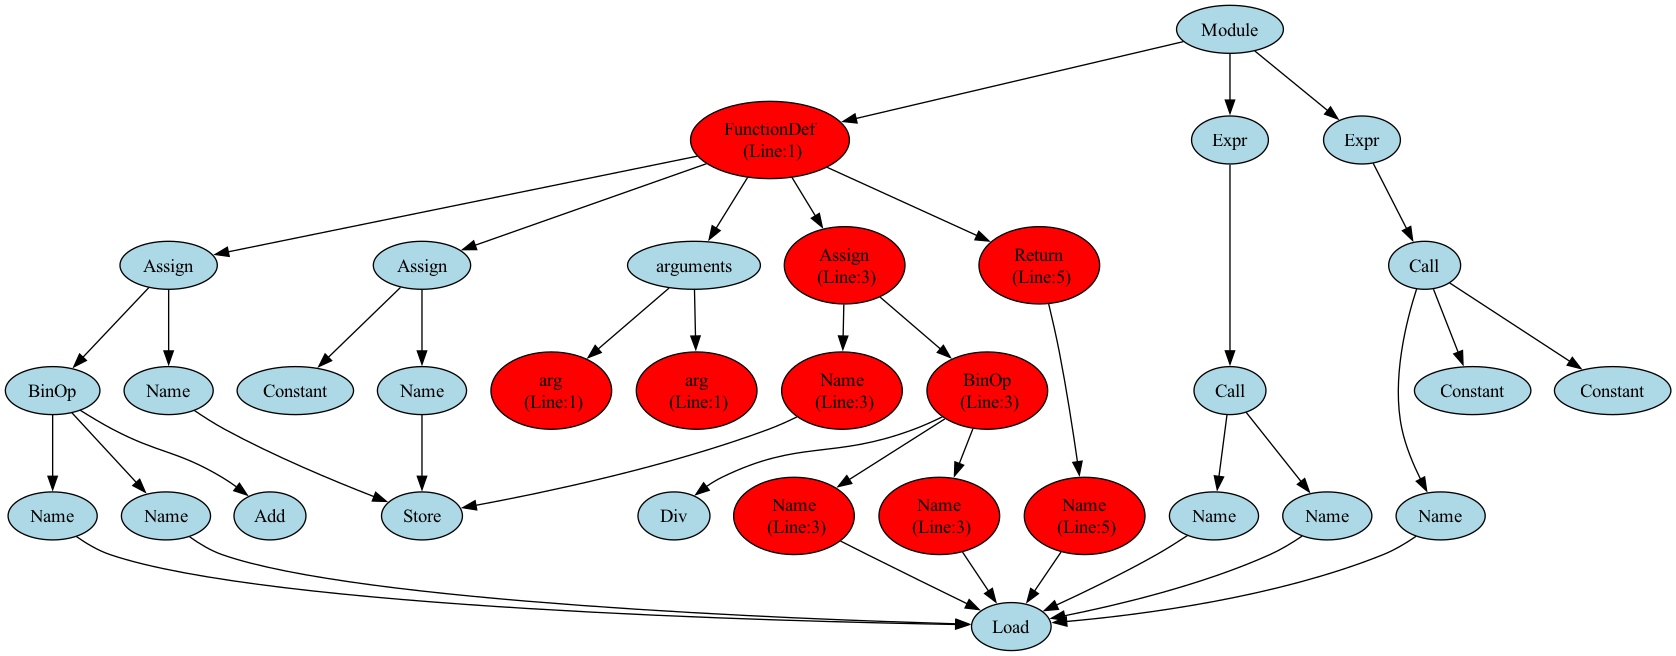
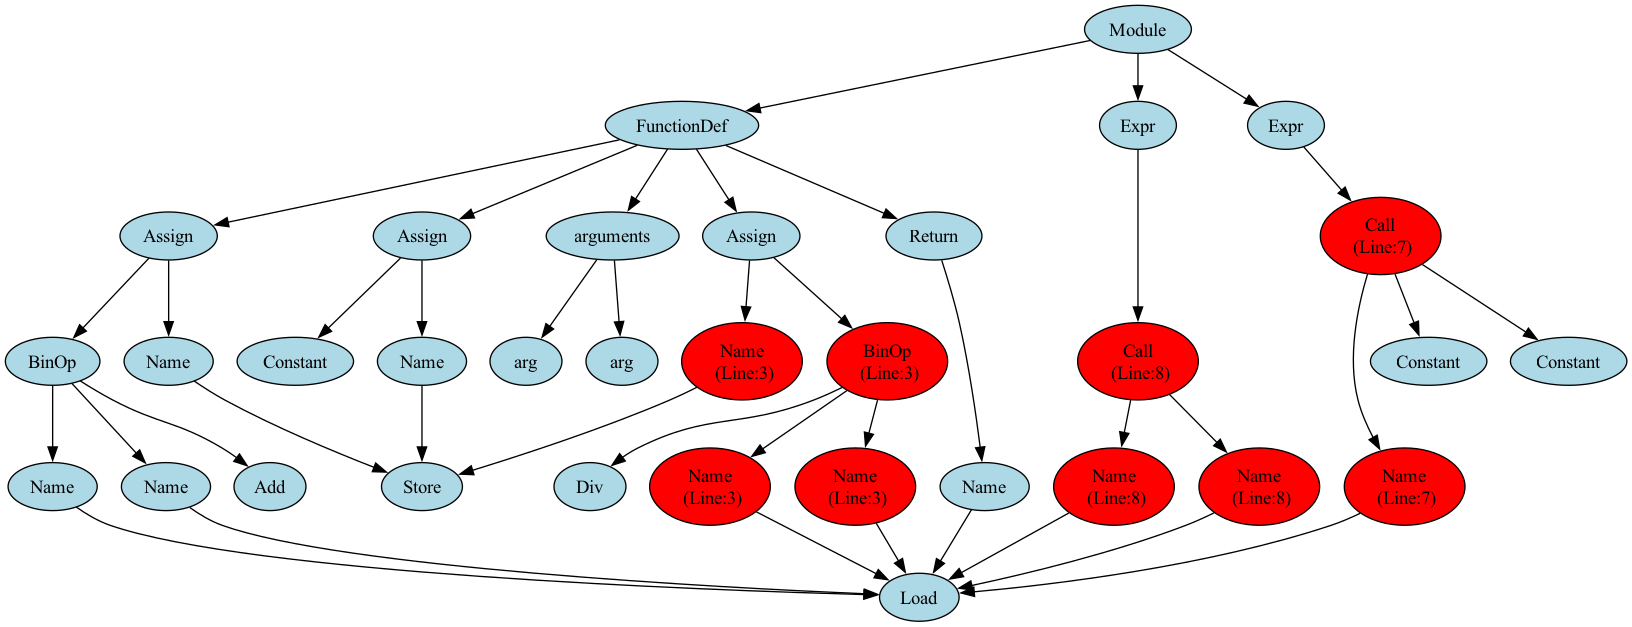
solved AST nodes mismatch

Changed region(s): [[0.0, 0.0, 0.9062, 1.0], [0.8125, 0.4848, 1.0, 0.6364], [0.875, 0.4545, 0.9062, 0.4848]]

diff --git a/auto_tree.py b/auto_tree.py
@@ -10,14 +10,15 @@ from graphviz import Digraph
 
 def get_ai_feedback(code):
     print("Analyzing code.....")
-    
+    lines = code.split('\n')
+    numbered_code = "\n".join([f"{i+1}: {line}" for i, line in enumerate(lines)])
     prompt = f"""
     Analyze the following Python code for errors. 
     Return ONLY a comma-separated list of line numbers that have issues.
     If there are no errors, return 0.
     
     Code:
-    {code}
+    {numbered_code}
     """
     
     try:
@@ -47,7 +48,8 @@ def draw_ast(code):
         label=type(node).__name__
         line_no=getattr(node,'lineno','none')
         color="lightblue"
-        if line_no in error_lines:
+        risky_node_types = (ast.BinOp, ast.Name, ast.Call, ast.Attribute, ast.Subscript)
+        if line_no in error_lines and isinstance(node, risky_node_types):
             color='red'
             label+=f'\n (Line:{line_no})'
         dot.node(node_id,label,style='filled',fillcolor=color)
@@ -63,13 +65,12 @@ if __name__ == "__main__":
     
     my_code = """def calculate(x, y):
     z = x + y
-    result = x / y  # Division by zero if y=0
+    result = x / y
     unused_var = 10
     return result
 
 calculate(5, 0)
 print(undefined_variable)"""
-   
 
     
   
